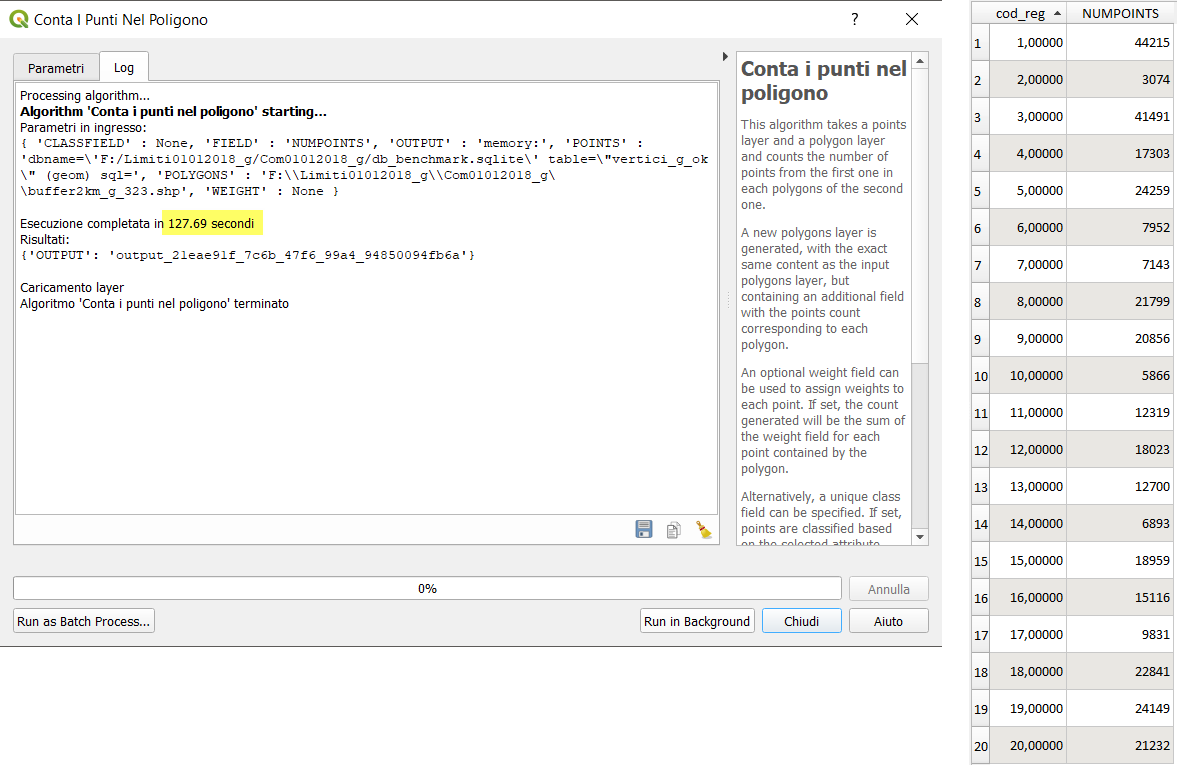
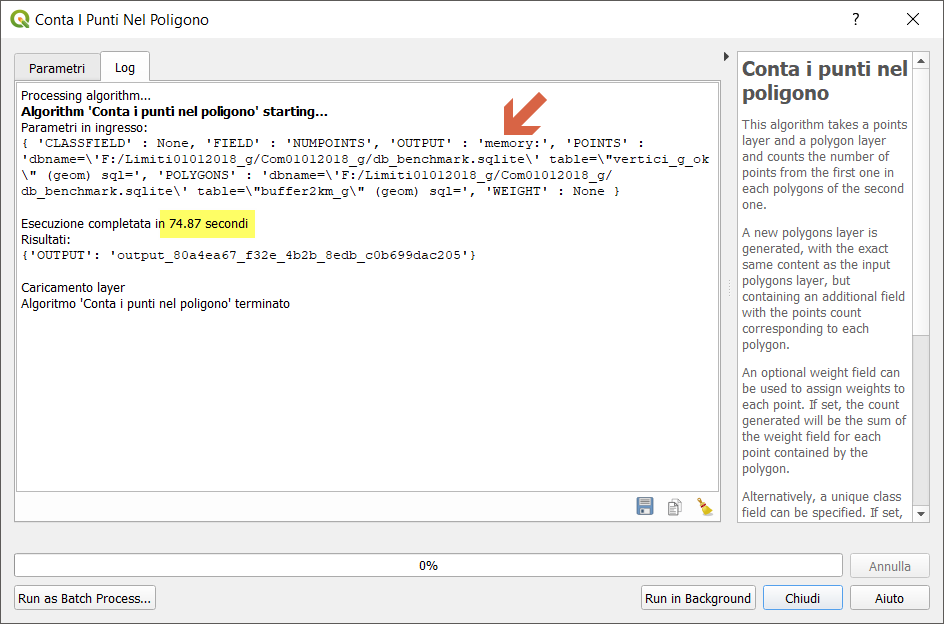
add proca count point

Changed region(s): [[0.0, 0.0, 1.0, 1.0], [0.0, 0.9135, 0.1536, 1.0], [0.4301, 0.883, 0.4608, 0.9135]]

diff --git a/prove/conta_punti_poligono.md b/prove/conta_punti_poligono.md
@@ -1,0 +1,197 @@
+# conta i punti nel poligono (LZ50)
+
+**dataset:** db sqlite con spatialindex tabella _vertici_g_ok_ e _buffer2km_g_
+
+<!-- TOC -->
+
+- [conta i punti nel poligono (LZ50)](#conta-i-punti-nel-poligono-lz50)
+    - [QGIS 2.18.24](#qgis-21824)
+    - [QGIS 3.2.3](#qgis-323)
+    - [QGIS 3.3 master](#qgis-33-master)
+    - [SpatiaLite GUI 2.10](#spatialite-gui-210)
+    - [PostgreSQL 9.3 / PostGIS 2.2.3 / pgAdmin 3](#postgresql-93--postgis-223--pgadmin-3)
+    - [mapshaper](#mapshaper)
+    - [R + RStudio](#r--rstudio)
+    - [RISULTATI (LZ50) - buffer -2 km](#risultati-lz50---buffer--2-km)
+    - [Osservazioni finali:](#osservazioni-finali)
+
+<!-- /TOC -->
+
+## QGIS 2.18.24
+
+![](../img/qgis21824_info.png)
+
+![](../img/conta_p/qgis21824_01.png)
+
+Creando un layer temporaneo in memoria:
+
+![](../img/conta_p/qgis21824_02.png)
+
+Salvando in un file shp:
+
+![](../img/conta_p/qgis21824_03.png)
+
+![](../img/conta_p/qgis21824_04.png)
+
+-->[torna su](#conta-i-punti-nel-poligono-lz50)
+
+## QGIS 3.2.3
+
+![](../img/qgis323_info.png)
+
+![](../img/conta_p/qgis323_01.png)
+
+Creando un layer temporaneo in memoria:
+
+![](../img/conta_p/qgis323_02.png)
+
+Salvando in un file shp:
+
+![](../img/conta_p/qgis323_03.png)
+
+![](../img/conta_p/qgis323_04.png)
+
+-->[torna su](#conta-i-punti-nel-poligono-lz50)
+
+## QGIS 3.3 master
+
+![](../img/qgis33_master_info.png)
+
+NB: Il debug rallenta le prestazioni!!!
+
+![](../img/conta_p/qgis330_01.png)
+
+Creando un layer temporaneo in memoria:
+
+![](../img/conta_p/qgis330_02.png)
+
+Salvando in un file shp:
+
+![](../img/conta_p/qgis330_03.png)
+
+![](../img/conta_p/qgis330_04.png)
+
+-->[torna su](#conta-i-punti-nel-poligono-lz50)
+
+## SpatiaLite GUI 2.10
+
+![](../img/spatialite_gui_210_info.png)
+
+Creando una tabella:
+
+```
+-- creo geotabella per conteggio punti nei poligoni
+CREATE TABLE "count_buffer2km_g" AS
+SELECT b.cod_reg AS cod_reg, b.geom AS geom, count(v.geom) AS nro
+FROM "buffer2km_g" b JOIN "vertici_g_ok2" v ON St_Intersects (b.geom, v.geom)
+WHERE v.out_pk IN (
+SELECT rowid FROM SpatialIndex WHERE f_table_name = 'vertici_g_ok2'
+AND search_frame = b.geom)
+GROUP BY 1,2;
+SELECT RecoverGeometryColumn('count_buffer2km_g','geom',32632,'MULTIPOLYGON','XY');
+
+
+```
+![](../img/conta_p/sl_210_01.png)
+
+Creando una query in memoria:
+
+```
+-- creo query in memoria
+SELECT b.cod_reg AS cod_reg, b.geom AS geom, count(v.geom) AS nro
+FROM "buffer2km_g" b JOIN "vertici_g_ok2" v ON St_Intersects (b.geom, v.geom)
+WHERE v.out_pk IN (
+SELECT rowid FROM SpatialIndex WHERE f_table_name = 'vertici_g_ok2'
+AND search_frame = b.geom)
+GROUP BY 1,2;
+```
+
+![](../img/conta_p/sl_210_02.png)
+
+-->[torna su](#conta-i-punti-nel-poligono-lz50)
+
+## PostgreSQL 9.3 / PostGIS 2.2.3 / pgAdmin 3
+
+![](../img/pgAmin3_info.png)
+
+Creo tabella:
+
+```
+-- creo geotabella con conteggio
+CREATE TABLE count_buffer2km_g AS
+SELECT cod_reg, b.geom AS geom, count(v.geom) as nro
+FROM buffer2km_g b join vertici_g_ok v on st_intersects(b.geom,v.geom)
+GROUP BY 1,2;
+```
+![](../img/conta_p/pg_223_01.png)
+
+Creo query in memoria:
+
+```
+-- creo query in memoria
+SELECT cod_reg, b.geom AS geom, count(v.geom) as nro
+FROM buffer2km_g b join vertici_g_ok v on st_intersects(b.geom,v.geom)
+GROUP BY 1,2;
+```
+
+![](../img/conta_p/pg_223_02.png)
+
+-->[torna su](#conta-i-punti-nel-poligono-lz50)
+
+## mapshaper
+
+![](../img/mapshaper_info.png)
+
+```
+time node  --max-old-space-size=4192 `which mapshaper` encoding=win1252 buffer2km_g_330.shp -join vertici_g_ok_330.shp calc='join_count = count()' fields= -o count_buffer2km_g_mapsh.shp
+```
+
+![](../img/conta_p/mapshaper_01.png)
+
+**NB:** i conteggi sono diversi rispetto agli altri software!!!
+
+-->[torna su](#conta-i-punti-nel-poligono-lz50)
+
+## R + RStudio
+
+![](../img/rstudio_info.png)
+
+```
+library(rgdal)
+library(GISTools)
+setwd("F:\\Limiti01012018_g\\Com01012018_g")
+start.time <- Sys.time()
+punti<-readOGR("vertici_g_ok_330.shp")
+reticolo<-readOGR("dissolto_g_reg_330.shp")
+end.time <- Sys.time()
+time.taken <- end.time - start.time
+time.taken
+#### calcolo conteggio 
+start.time <- Sys.time()
+conteggio<-poly.counts(punti, reticolo)
+end.time <- Sys.time()
+time.taken <- end.time - start.time
+time.taken
+conteggio
+```
+![](../img/conta_p/r_01.png)
+
+## RISULTATI (LZ50) - buffer -2 km
+
+file/table [sec]|memoria [sec]|software GIS
+:---------:|:---------:|---------
+65         |   60      |QGIS 2.18.24
+75         |   75      |QGIS 3.2.3
+75         |   75      |QGIS 3.3 master con debug
+3372       | +3600     |SpatiaLite_GUI 2.10
+254        |   394     |pgAdmin 3 con spatialIndex
+64         |   `-`     |mapshaper
+407        |   407     |R + RStudio
+
+`-` prova non possibile! 
+
+[torna su](#conta-i-punti-nel-poligono-lz50)
+
+## Osservazioni finali:
+
+In QGIS l'uso dei _file temporanei_ (in memoria) velocizza di parecchio la generazione dell'output di alcuni processing.

diff --git a/README.md b/README.md
@@ -64,6 +64,8 @@ sudo apt-get install npm
 sudo npm install -g mapshaper
 ```
 
+![](./img/readme/sw.png)
+
 ## prove
 
 1. [estrai vertici](./prove/estrai_vertici.md);
